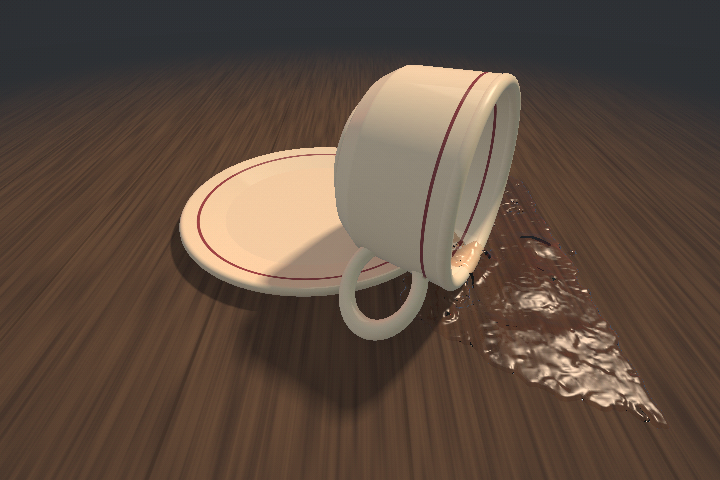
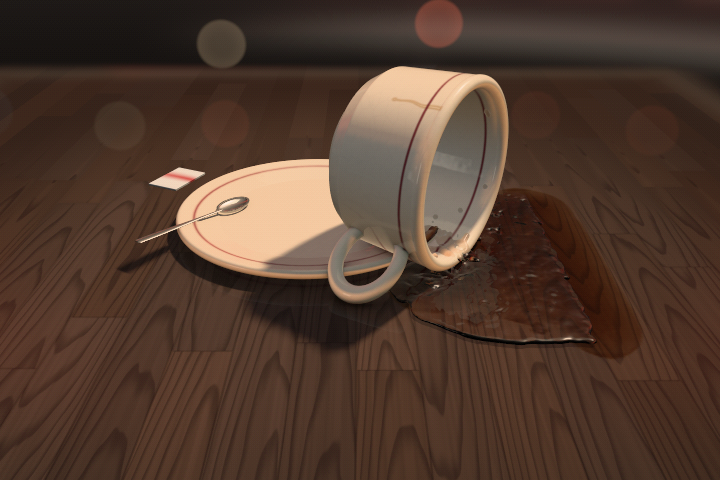
docs: refresh Metal screenshots and README for the new look

diff --git a/README.md b/README.md
@@ -14,11 +14,27 @@ On a terminal that **positively answers the Kitty graphics capability query**, `
 uses the optional Metal helper automatically. Otherwise it keeps the ANSI renderer;
 terminal names alone are not treated as proof of image support.
 
-- Ivory glazed ceramic, oxblood pinstripes, a resting foot and walnut tabletop.
-- Soft contact shadows, window/neon reflections, warm steam shafts and a free liquid surface.
-- Restrained red/teal diner neon and occasional passing-headlight sweeps; `l` toggles
-  them, or start with `--studio` for the simpler lighting.
+- Ivory ceramic as two layers: a diffuse body with wrap lighting and a warm
+  translucent glow through the thin rim and handle, under a sharp F0 .04 clearcoat
+  with faint orange peel and crazing; an unglazed foot ring and an old dried drip.
+- Varnished walnut planks (~4.5 cm, per-board tone) with domain-warped cathedral
+  growth rings, pore lines and an anisotropic sheen along the grain.
+- A spoon resting on the saucer and a sugar packet (render-only props; the liquid
+  and cup do not collide with them). Glaze, varnish and steel mirror each other.
+- Tight contact occlusion, window/neon reflections, a micro-bubble meniscus ring,
+  a thin-film oil sheen at grazing angles and a free liquid surface.
+- A ~35° lens with thin-lens depth of field: the room behind the table is an
+  analytically defocused diner (counter and stools, pie case, red neon sign, teal
+  OPEN tubes, street lamps through the window, bokeh discs).
+- Restrained red/teal diner neon and occasional passing-headlight sweeps, which
+  pass through the window mullions as a moving gobo; `l` toggles them, or start
+  with `--studio` for the simpler lighting.
+- Steam is domain-warped noise scrolling upward, eroded into wisps with height,
+  with Henyey-Greenstein forward scattering so it glows when backlit.
 - World-space steam follows both tilt axes; the steam-written clock still works.
+- Spilled films and residue absorb by Beer-Lambert over their depth (thin films
+  tan, pools dark), with a meniscus edge highlight and a darker coffee-ring edge
+  where the ever-wet footprint ends.
 - Fine, stable ordered dithering (`--smooth` swaps it for static ±1 LSB noise), not
   low-resolution upscaling.
 - GPU image pipeline: warm key + cool sky ambient, normalized GGX specular with
@@ -26,8 +42,10 @@ terminal names alone are not treated as proof of image support.
   self-shadowing, PBR Neutral shoulder tonemap and exact sRGB encoding (optional
   `"exposure"` request key, default 1). A still view accumulates Halton-jittered
   samples into a persistent history (neighbourhood-clipped; rejected when the surface
-  under a pixel changes); any camera or cup motion resets it, and those frames
-  supersample only material/depth edges instead.
+  under a pixel changes, or for rigid surfaces only when it changes to/from liquid
+  or spray); any camera or cup motion resets it, and those frames supersample only
+  material/depth edges instead. Every pattern is deterministic per pixel; depth of
+  field is analytic, so a still frame cannot shimmer.
 - Ambient light changes the warm/cool lighting balance. The camera rests by default;
   press `o` for auto-orbit.
 - Native resolution: the image is rendered at the terminal's real cell pixel size
@@ -147,7 +165,10 @@ modelled ~2.5% denser than hot coffee, so the pour plunges and spreads low until
 stirring lifts it. Stirring is a submerged spoon circling the cup plus a weak bulk
 swirl, with vorticity confinement and wall skin friction, so it sheds shear
 ribbons and spins down over seconds rather than painting concentric rings. A short
-absorption/scattering integration reveals cream below the surface. This is a
+absorption/scattering integration reveals cream below the surface: its scattering
+is seen through a softened coffee absorption, so a sunken cloud reads as a tan glow
+fading with depth, and albedo follows concentration (semi-infinite multiple
+scattering), so partly mixed regions are café-au-lait rather than chalk. This is a
 single-fluid concentration model with stylized optics, not a separate multiphase
 milk solver or a canned latte-art animation.
 
